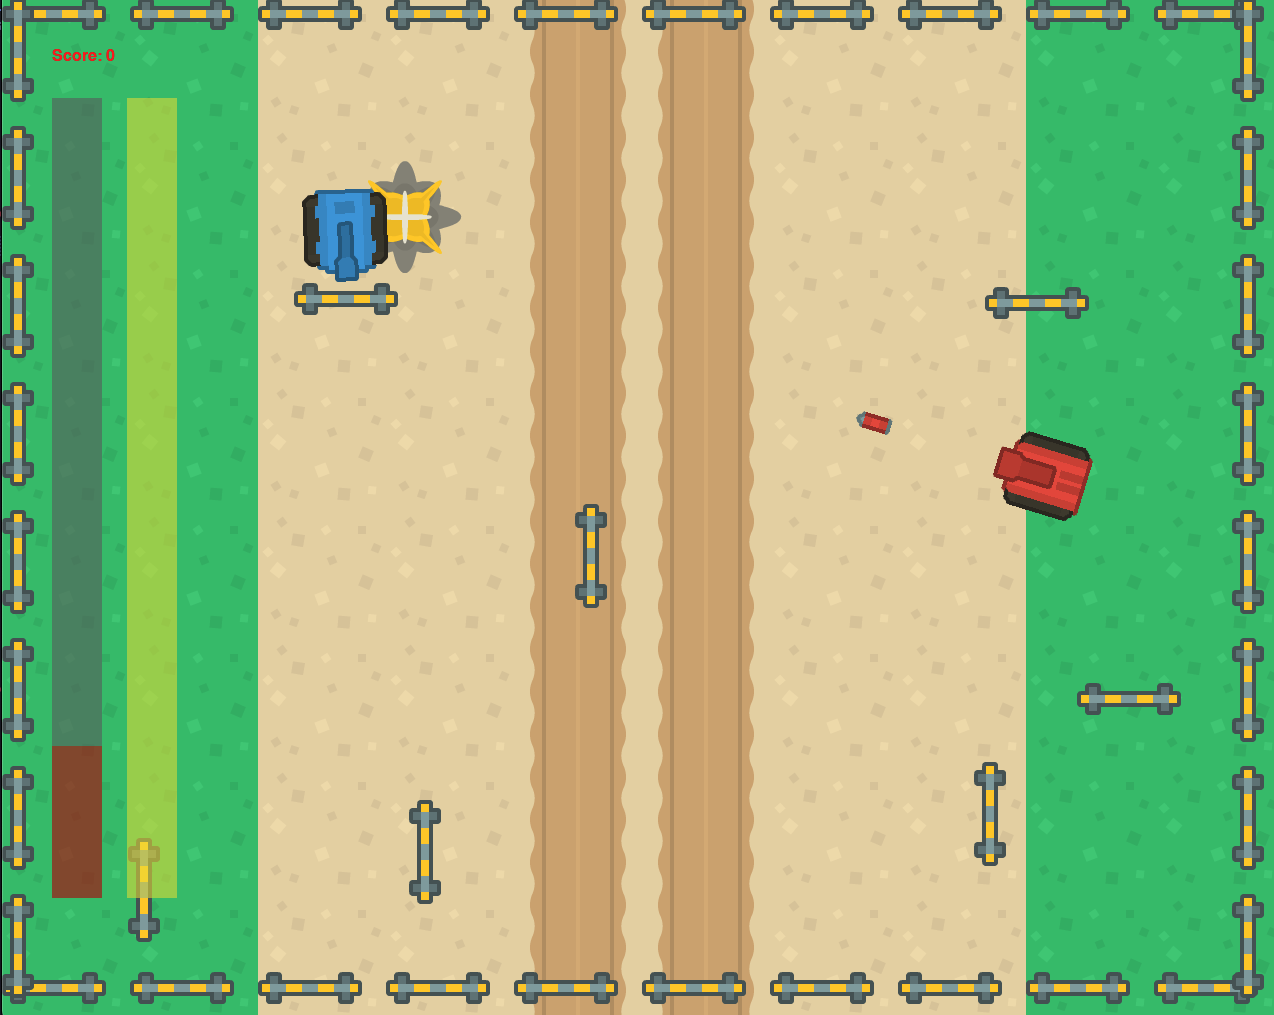
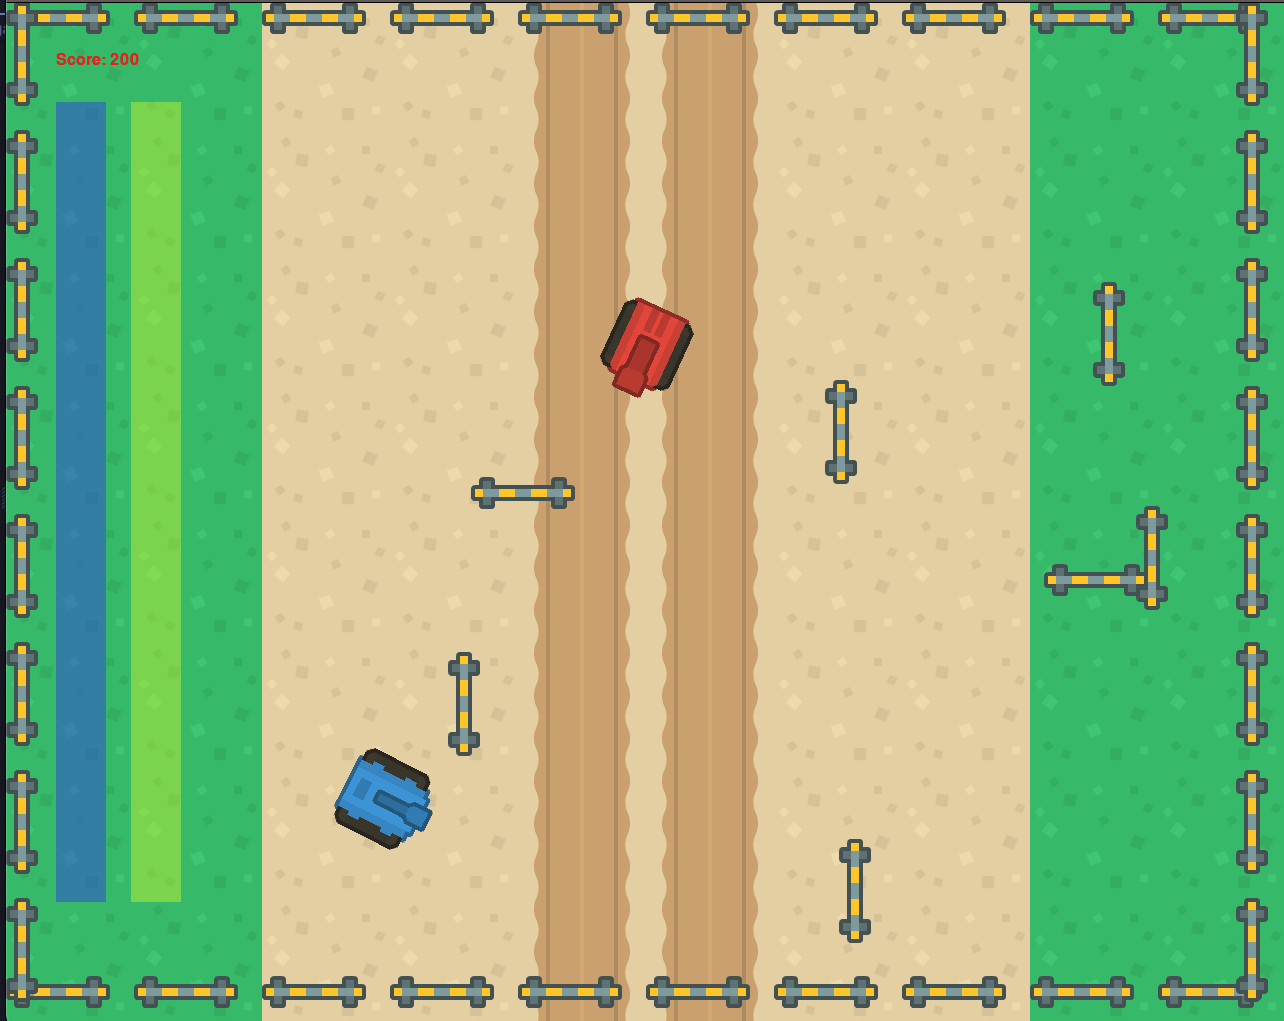
changed health bar color

diff --git a/bar.py b/bar.py
@@ -2,27 +2,26 @@ import pygame
 
 
 class Bar(pygame.sprite.Sprite):
-    def __init__(self, color="yellow", place=0):
+    def __init__(self, color, place=0):
         super().__init__()
         self.place = place
         self.color = color
+        self.colors = {'red': (230, 10, 10), 'blue': (
+            53, 66, 252), 'yellow': (233, 247, 39)}
         self.update()
 
     def update(self, status=1):
       # make a boullet bar and fill with yellow
         self.image = pygame.Surface((50, 800))
         self.rect = self.image.get_rect()
-        if self.color == 'red':
-            self.image.fill((200, 0, 0))
-        else:
-            self.image.fill((235, 222, 52))
+        self.image.fill(self.colors.get(self.color))
 
         # take the top portion and fill in with gray
         fill_height = int((1-status) * self.rect.height)
         self.image.fill((100, 100, 100), (0, 0, 50, fill_height))
         # set alpha for transparancy
         self.rect.topleft = (50+self.place*75, 100)
-        self.image.set_alpha(150)
+        self.image.set_alpha(110)
 
     def draw(self, screen):
         screen.blit(self.image, self.rect)

diff --git a/game.py b/game.py
@@ -112,7 +112,7 @@ last_shot = pygame.time.get_ticks()
 
 # make the bullet bar
 bullet_bar = Bar('yellow', 1)
-health_bar = Bar('red', 0)
+health_bar = Bar('blue', 0)
 
 
 # while loop that runs the game

diff --git a/README.md b/README.md
@@ -17,6 +17,7 @@
 - Press Up arrow to speed up
 - Press Down arrow to slow down
 - Left click the mouse button to shoot
+- Press 'Q' to quit the game
 
 ### Additional Features
 - You are awarded 100 points for each enemy tank you kill
